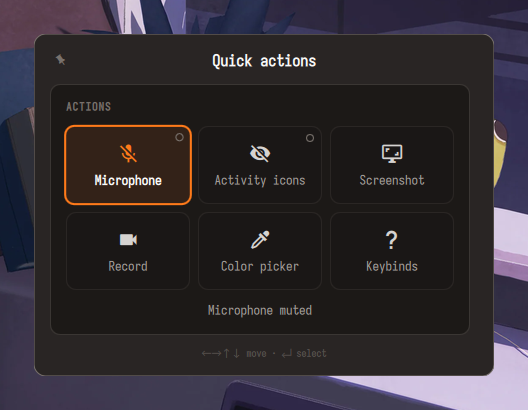
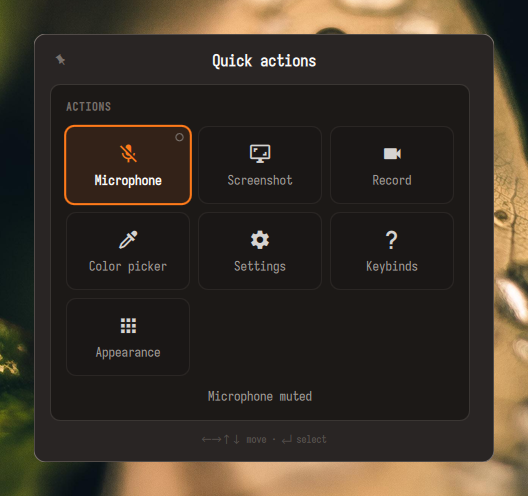
As a user I see the current shell and settings app in the README
Closes #241

- Gallery retaken on workspace 9 over a calm wallpaper: launcher,
  clipboard, Quick Actions, Bluetooth, power, system monitor, day panel,
  key binds, toast and the bar
- New Settings app section with Appearance, Displays and Accessibility
- gallery-shots.sh: --workspace option; the key binds shot opens the
  settings app window (the old Quickshell viewer is gone)
- Sound keeps its old picture: the live one shows a device named after
  the owner

diff --git a/README.md b/README.md
@@ -16,7 +16,7 @@ Modals reachable from keybindings or the bar:
   <tr>
     <td align="center" width="33%" valign="top"><img src="screenshots/gallery/spotlight.png" width="100%"/><br><strong>Launcher</strong><br>apps, actions, calculator<br><kbd>Super</kbd>+<kbd>R</kbd></td>
     <td align="center" width="33%" valign="top"><img src="screenshots/gallery/clipboard.png" width="100%"/><br><strong>Clipboard</strong><br>history with thumbnails<br><kbd>Super</kbd>+<kbd>V</kbd></td>
-    <td align="center" width="33%" valign="top"><img src="screenshots/gallery/quickactions.png" width="100%"/><br><strong>Quick Actions</strong><br>toggles and one-shots<br><kbd>Super</kbd>+<kbd>A</kbd></td>
+    <td align="center" width="33%" valign="top"><img src="screenshots/gallery/quickactions.png" width="100%"/><br><strong>Quick Actions</strong><br>microphone, screenshot, record, color picker<br><kbd>Super</kbd>+<kbd>A</kbd></td>
   </tr>
   <tr>
     <td align="center" width="33%" valign="top"><img src="screenshots/gallery/network.png" width="100%"/><br><strong>Bluetooth</strong><br>paired devices, scan, pairing<br><kbd>Super</kbd>+<kbd>Shift</kbd>+<kbd>B</kbd></td>
@@ -25,14 +25,35 @@ Modals reachable from keybindings or the bar:
   </tr>
   <tr>
     <td align="center" width="33%" valign="top"><img src="screenshots/gallery/systemmonitor.png" width="100%"/><br><strong>System Monitor</strong><br>btop-style graphs: CPU, GPU, memory, network, disks, processes<br><kbd>Super</kbd>+<kbd>M</kbd></td>
-    <td align="center" width="33%" valign="top"><img src="screenshots/gallery/daypanel.png" width="100%"/><br><strong>Day Panel</strong><br>calendar, weather, media, notifications<br><kbd>Super</kbd>+<kbd>N</kbd> / <kbd>Super</kbd>+<kbd>D</kbd></td>
-    <td align="center" width="33%" valign="top"><img src="screenshots/gallery/keybinds.png" width="100%"/><br><strong>Keyboard shortcuts</strong><br>search, filter, run, rebind (settings app)<br><kbd>Super</kbd>+<kbd>F1</kbd></td>
+    <td align="center" width="33%" valign="top"><img src="screenshots/gallery/daypanel.png" width="100%"/><br><strong>Day Panel</strong><br>calendar, events, quiet toggles, media, notifications<br><kbd>Super</kbd>+<kbd>N</kbd> / <kbd>Super</kbd>+<kbd>D</kbd></td>
+    <td align="center" width="33%" valign="top"><img src="screenshots/gallery/keybinds.png" width="100%"/><br><strong>Key binds</strong><br>search, filter, run, rebind (settings app)<br><kbd>Super</kbd>+<kbd>F1</kbd></td>
   </tr>
   <tr>
     <td align="center" width="33%" valign="top"><img src="screenshots/gallery/wallpaper.png" width="100%"/><br><strong>Wallpaper Deck</strong><br>hold <kbd>Super</kbd>, tap <kbd>W</kbd> to deal, release to apply</td>
     <td align="center" width="33%" valign="top"><img src="screenshots/gallery/toast.png" width="100%"/><br><strong>Notification Toast</strong><br>auto-shown on incoming notification</td>
   </tr>
 </table>
+
+### Settings app
+
+Every option of the shell and of Hyprland in one native app (Rust, iced):
+network, Bluetooth, sound, displays, appearance, accessibility, windows and
+window rules, the bar, date and time, notifications, power and lock, privacy,
+Flatpak app permissions, users, updates, services and syncs, with search, a
+list of everything you changed and export/import. Open it from the launcher,
+`settings`, or `settings -p <panel>` for one panel.
+
+<table>
+  <tr>
+    <td align="center" width="33%" valign="top"><img src="screenshots/gallery/settings-appearance.png" width="100%"/><br><strong>Appearance</strong><br>accent, dark or light, themes, fonts</td>
+    <td align="center" width="33%" valign="top"><img src="screenshots/gallery/settings-displays.png" width="100%"/><br><strong>Displays</strong><br>resolution, scale, rotation, night light</td>
+    <td align="center" width="33%" valign="top"><img src="screenshots/gallery/settings-accessibility.png" width="100%"/><br><strong>Accessibility</strong><br>text size, contrast, zoom, motion</td>
+  </tr>
+</table>
+
+More in [`apps/settings/README.md`](apps/settings/README.md).
+
+### Lock screen
 
 The lock screen (<kbd>Super</kbd>+<kbd>L</kbd>): clock, now playing, weather, battery and power buttons over the blurred wallpaper:
 
@@ -57,7 +78,7 @@ The lock screen (<kbd>Super</kbd>+<kbd>L</kbd>): clock, now playing, weather, ba
 - [`docs/DEVELOPMENT.md`](docs/DEVELOPMENT.md) — lint checks and the pre-commit hook
 - [`config/quickshell/DESIGN.md`](config/quickshell/DESIGN.md) — QML widget conventions and recipes
 - [`config/scripts/README.md`](config/scripts/README.md) — per-script breakdown (what runs when)
-- [`apps/settings/README.md`](apps/settings/README.md) — the settings app (`settings -p <panel>`)
+- [`apps/settings/README.md`](apps/settings/README.md) — the settings app: every panel and what it changes
 - [`config/hypr/MODULES.md`](config/hypr/MODULES.md) — what each `config/hypr/modules/*.lua` owns
 
 ## Setup
@@ -72,7 +93,7 @@ This will clone the repo to `~/dotfiles` and run the setup script automatically.
 
 Dependencies, manual setup and the Firefox profile step are in [`docs/INSTALL.md`](docs/INSTALL.md).
 
-After install, see [`docs/CONFIGURATION.md`](docs/CONFIGURATION.md) for wallpapers and other settings, and `Super+F1` for keybinds.
+After install, open the settings app (`settings`) for wallpapers, displays and everything else, and `Super+F1` for keybinds; [`docs/CONFIGURATION.md`](docs/CONFIGURATION.md) covers the files behind them.
 
 ## Dotfiles Manager
 

diff --git a/.claude/skills/retake-gallery-shots/SKILL.md b/.claude/skills/retake-gallery-shots/SKILL.md
@@ -18,7 +18,12 @@ The script is `config/scripts/gallery-shots.sh` (also on PATH as `~/.config/scri
 ~/.config/scripts/gallery-shots.sh --list      # shot names
 ~/.config/scripts/gallery-shots.sh             # retake every popup shot
 ~/.config/scripts/gallery-shots.sh sound toast # retake only these
+~/.config/scripts/gallery-shots.sh --workspace 9 # on workspace 9 (keep it empty)
 ```
+
+A busy wallpaper (large text) shows at the crop edges: switch to a calm one
+(`awww img ~/Pictures/wallpapers/Blur.jpeg`) for the run and put the old one
+back after (`awww query` names it).
 
 Run only the shots affected by the change. Each shot opens a popup through its Quickshell global shortcut, so do not touch the keyboard or mouse while it runs.
 
@@ -39,5 +44,6 @@ Run only the shots affected by the change. Each shot opens a popup through its Q
 
 - `desktop.png`: composed scene with real windows.
 - `bar.png`: the bell badge counts every test toast, so take it with no pending notifications.
+- `settings-*.png`: the settings app panels, with `apps/settings/scripts/screenshot.sh <panel> <out>`. Crop out the wallpaper folder path (it holds the user name).
 - `wallpaper.png`: the deck only deals while Super is held.
 - `lockscreen.png`: locking needs the password to get back in. Run `bash ~/.config/scripts/hyprlock-art.sh; setsid -f hyprlock; sleep 4; grim -o eDP-1 /tmp/lock.png`, unlock, then save it with `magick /tmp/lock.png -resize 1440x -strip screenshots/gallery/lockscreen.png`. Check for personal content (now-playing title, weather location) before committing.
